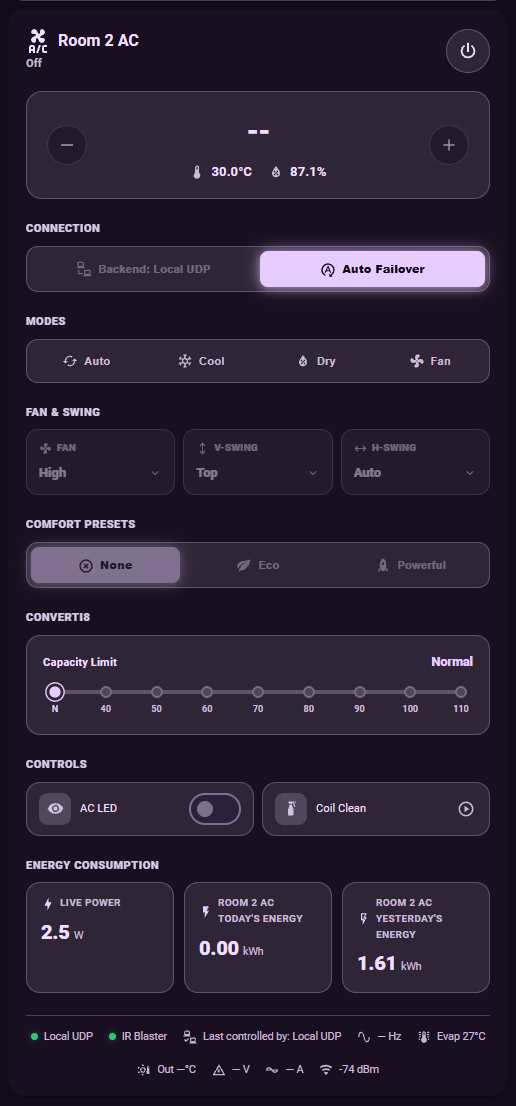
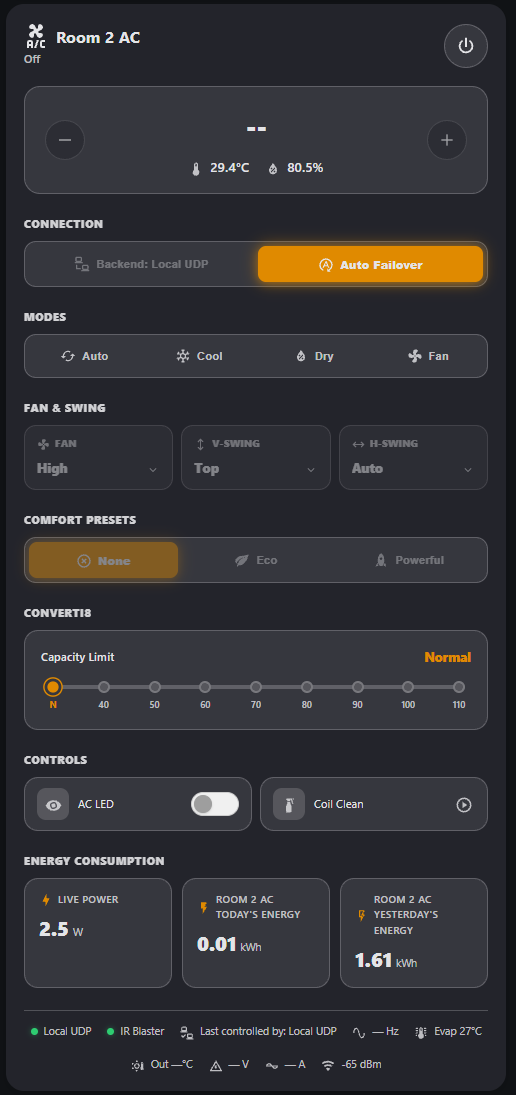
docs: update card screenshots with Material You & Graphite themes and center layout

diff --git a/docs/README-3.0.md b/docs/README-3.0.md
@@ -32,35 +32,29 @@ A custom Lovelace thermostat card for Panasonic Air Conditioners on the Indian m
 * **Energy Analytics Cards**: Quick telemetry display for live **Power (`W`)**, **Today's Energy (`kWh`)**, and **Yesterday's Energy (`kWh`)**—compatible with both MirAIe blended energy sensors and external smart plugs.
 * **Haptic Touch Feedback**: Tactile vibration responses when toggling modes and adjusting setpoints on mobile devices.
 * **Visual GUI Editor**: Custom `ha-form` editor organized into expandable sections (`Appearance & Theme`, `Sensors`, `Connectivity & Failover`, `AC Features & Controls`, `Energy & Diagnostics`), auto-populating companion entities on card creation while letting you clear or override any entity.
+* **Dynamic Theming & Theme Compatibility**: Responsive across default Home Assistant themes in Dark and Light modes, optimized for the [Material You Theme by Nerwyn](https://github.com/Nerwyn/material-you-theme) (Google Home Material 3 style) and the [Graphite Theme by Tilman Griesel](https://github.com/TilmanGriesel/graphite) (Classic style).
 
 ---
 
 ## Screenshots
 
+<div align="center">
+
 ### Full Views (Dark & Light)
 
-<div align="center">
+| Style | Dark Mode | Light Mode |
+| :---: | :---: | :---: |
+| **Google Home (Material 3)**<br>*(shown with [Material You Theme](https://github.com/Nerwyn/material-you-theme))* | <img src="images/card-google-home-dark.png" alt="Google Home Dark Mode" width="380"> | <img src="images/card-google-home-light.png" alt="Google Home Light Mode" width="380"> |
+| **Classic**<br>*(shown with [Graphite Theme](https://github.com/TilmanGriesel/graphite))* | <img src="images/card-classic-dark.png" alt="Classic Dark Mode" width="380"> | <img src="images/card-classic-light.png" alt="Classic Light Mode" width="380"> |
+
+### Compact Views (Dark & Light)
 
 | Style | Dark Mode | Light Mode |
-| :--- | :---: | :---: |
-| **Google Home (Material 3)** | <img src="images/card-google-home-dark.png" alt="Google Home Dark Mode" width="380"> | <img src="images/card-google-home-light.png" alt="Google Home Light Mode" width="380"> |
-| **Classic** | <img src="images/card-classic-dark.png" alt="Classic Dark Mode" width="380"> | <img src="images/card-classic-light.png" alt="Classic Light Mode" width="380"> |
-
-</div>
-
-### Compact View
-
-<div align="center">
-
-| Compact (Dark) | Compact (Light) |
-| :---: | :---: |
-| <img src="images/card-compact-dark.png" alt="Compact Dark Mode" width="380"> | <img src="images/card-compact-light.png" alt="Compact Light Mode" width="380"> |
-
-</div>
+| :---: | :---: | :---: |
+| **Google Home (Material 3)**<br>*(shown with [Material You Theme](https://github.com/Nerwyn/material-you-theme))* | <img src="images/card-compact-gh-dark.png" alt="Google Home Compact Dark Mode" width="380"> | <img src="images/card-compact-gh-light.png" alt="Google Home Compact Light Mode" width="380"> |
+| **Classic**<br>*(shown with [Graphite Theme](https://github.com/TilmanGriesel/graphite))* | <img src="images/card-compact-classic-dark.png" alt="Classic Compact Dark Mode" width="380"> | <img src="images/card-compact-classic-light.png" alt="Classic Compact Light Mode" width="380"> |
 
 ### Visual Card Editor
-
-<div align="center">
 
 | Appearance & Theme | Toggles & Collapsible Sections |
 | :---: | :---: |

diff --git a/docs/v3.0-whats-new.md b/docs/v3.0-whats-new.md
@@ -15,13 +15,21 @@ Both **Google Home (Material 3)** and **Classic** full views—plus the **Compac
 
 <div align="center">
 
-| Google Home (Dark) | Google Home (Light) |
+| Google Home (Dark — [Material You](https://github.com/Nerwyn/material-you-theme)) | Google Home (Light — [Material You](https://github.com/Nerwyn/material-you-theme)) |
 | :---: | :---: |
 | <img src="images/card-google-home-dark.png" alt="Google Home Dark Mode" width="380"> | <img src="images/card-google-home-light.png" alt="Google Home Light Mode" width="380"> |
 
-| Classic (Dark) | Classic (Light) |
+| Classic (Dark — [Graphite](https://github.com/TilmanGriesel/graphite)) | Classic (Light — [Graphite](https://github.com/TilmanGriesel/graphite)) |
 | :---: | :---: |
 | <img src="images/card-classic-dark.png" alt="Classic Dark Mode" width="380"> | <img src="images/card-classic-light.png" alt="Classic Light Mode" width="380"> |
+
+| Compact Google Home (Dark) | Compact Google Home (Light) |
+| :---: | :---: |
+| <img src="images/card-compact-gh-dark.png" alt="Google Home Compact Dark Mode" width="380"> | <img src="images/card-compact-gh-light.png" alt="Google Home Compact Light Mode" width="380"> |
+
+| Compact Classic (Dark) | Compact Classic (Light) |
+| :---: | :---: |
+| <img src="images/card-compact-classic-dark.png" alt="Classic Compact Dark Mode" width="380"> | <img src="images/card-compact-classic-light.png" alt="Classic Compact Light Mode" width="380"> |
 
 </div>
 
